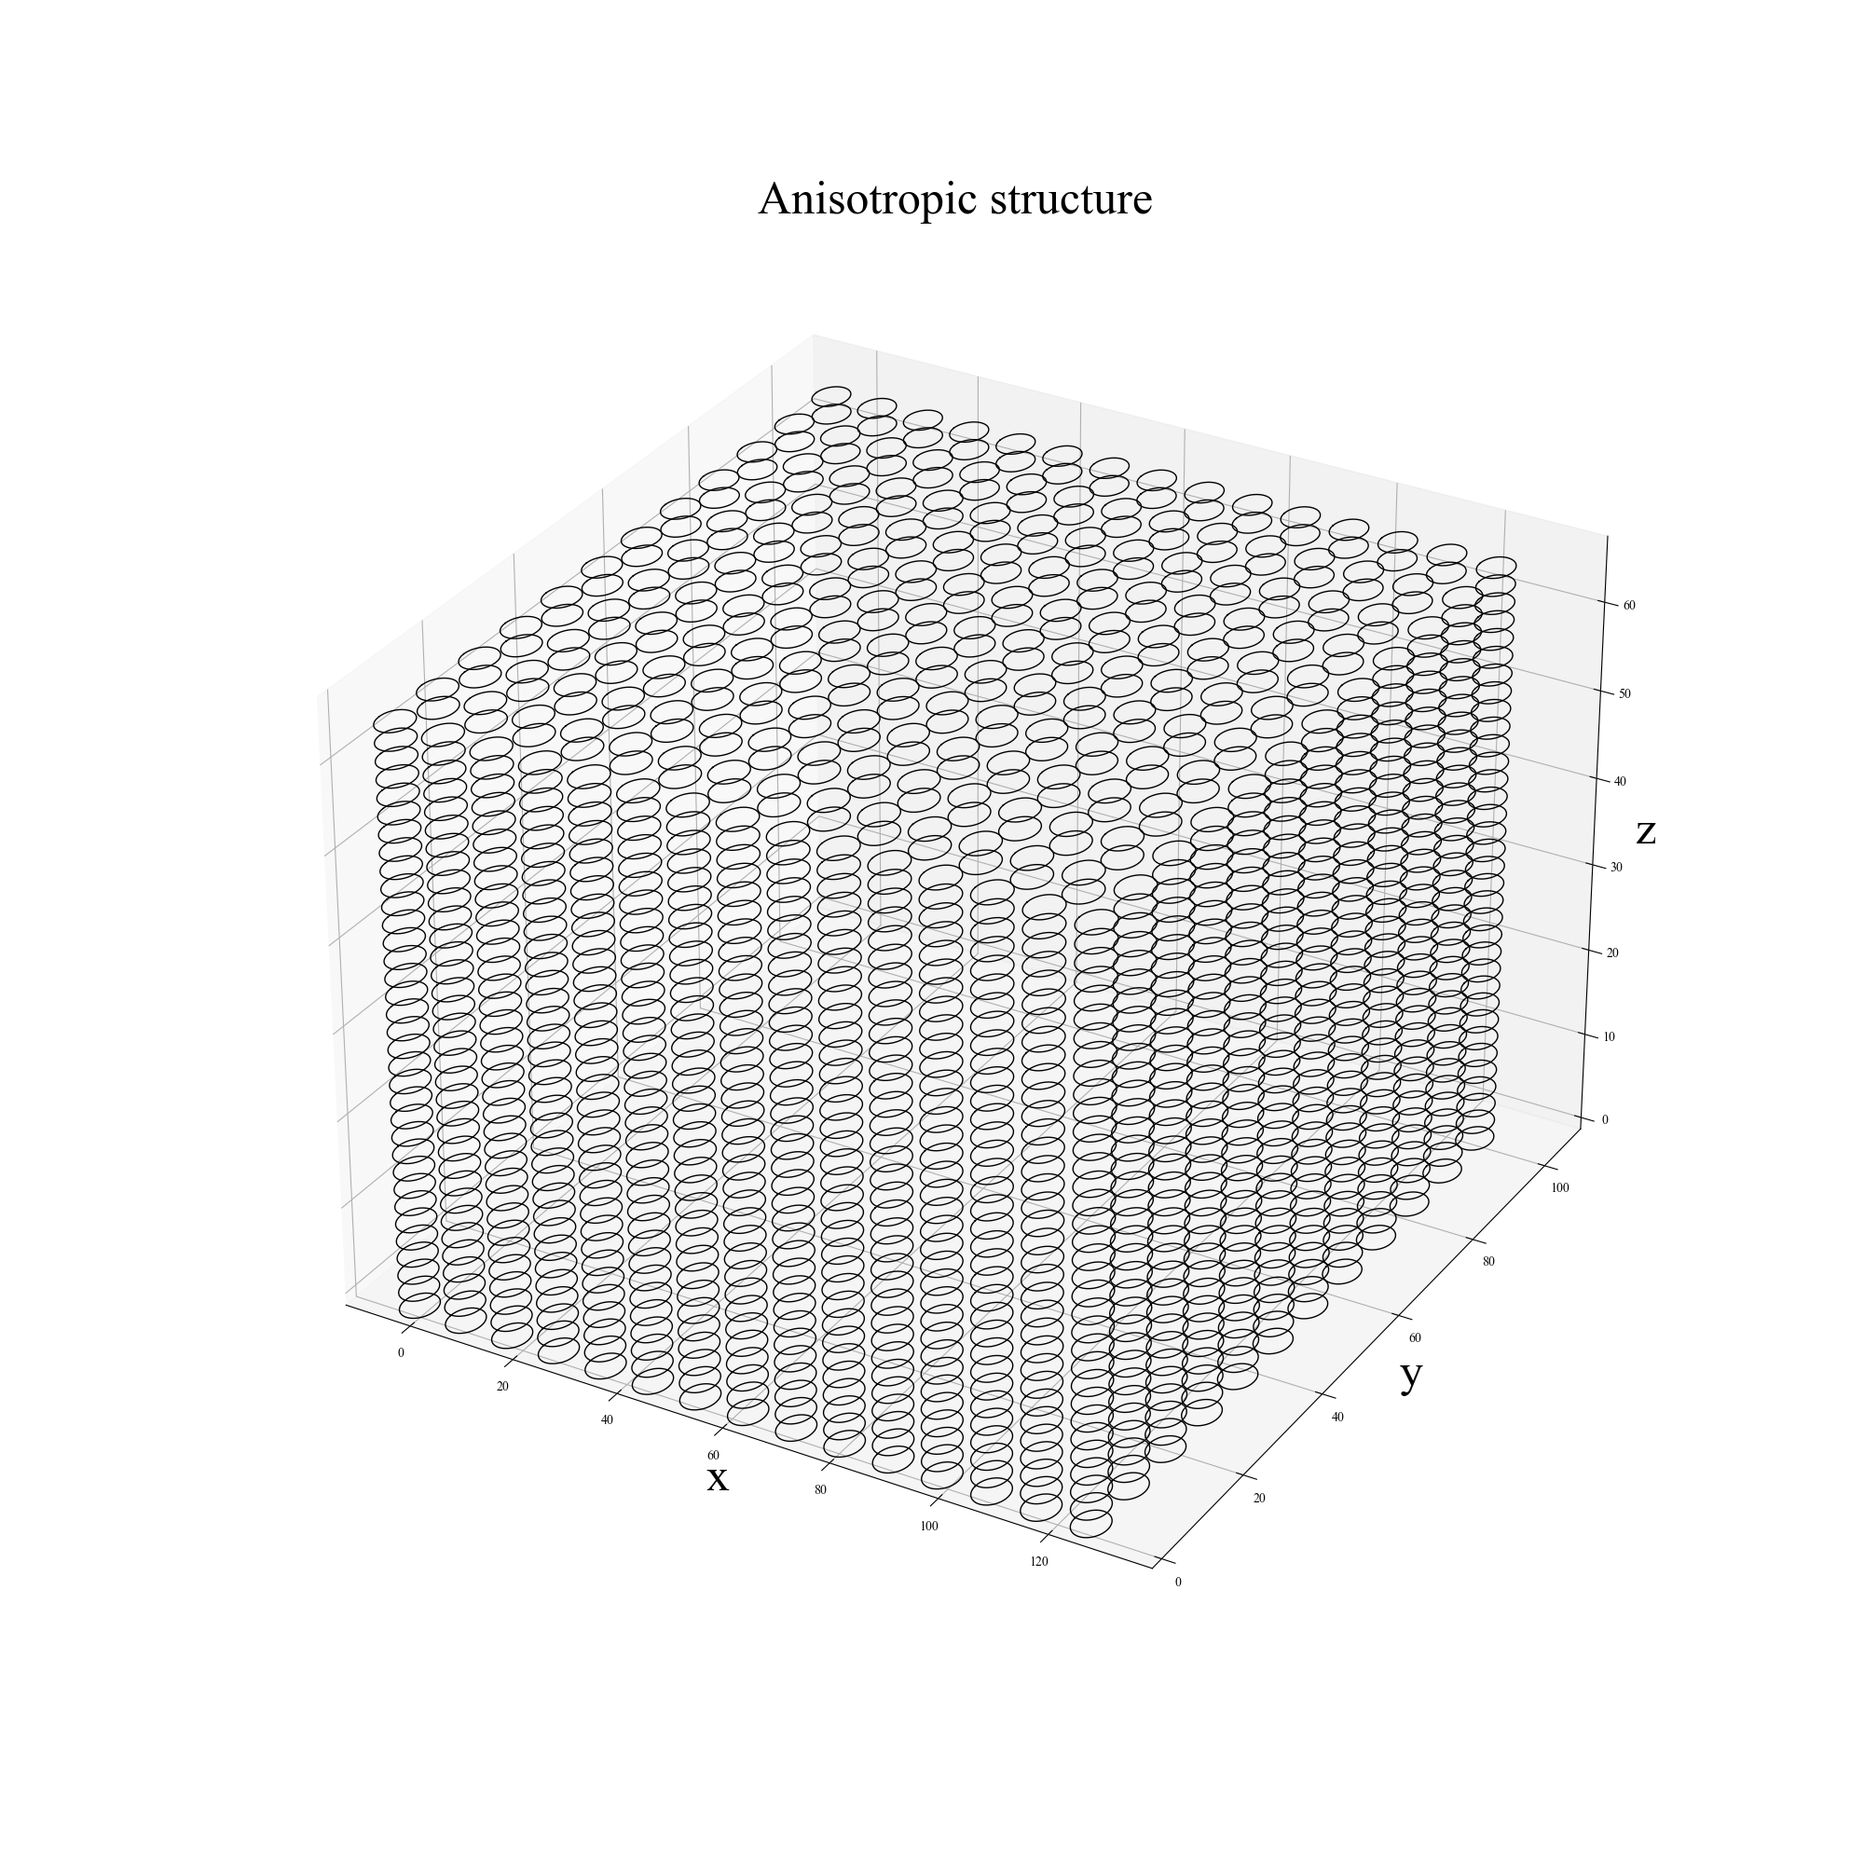
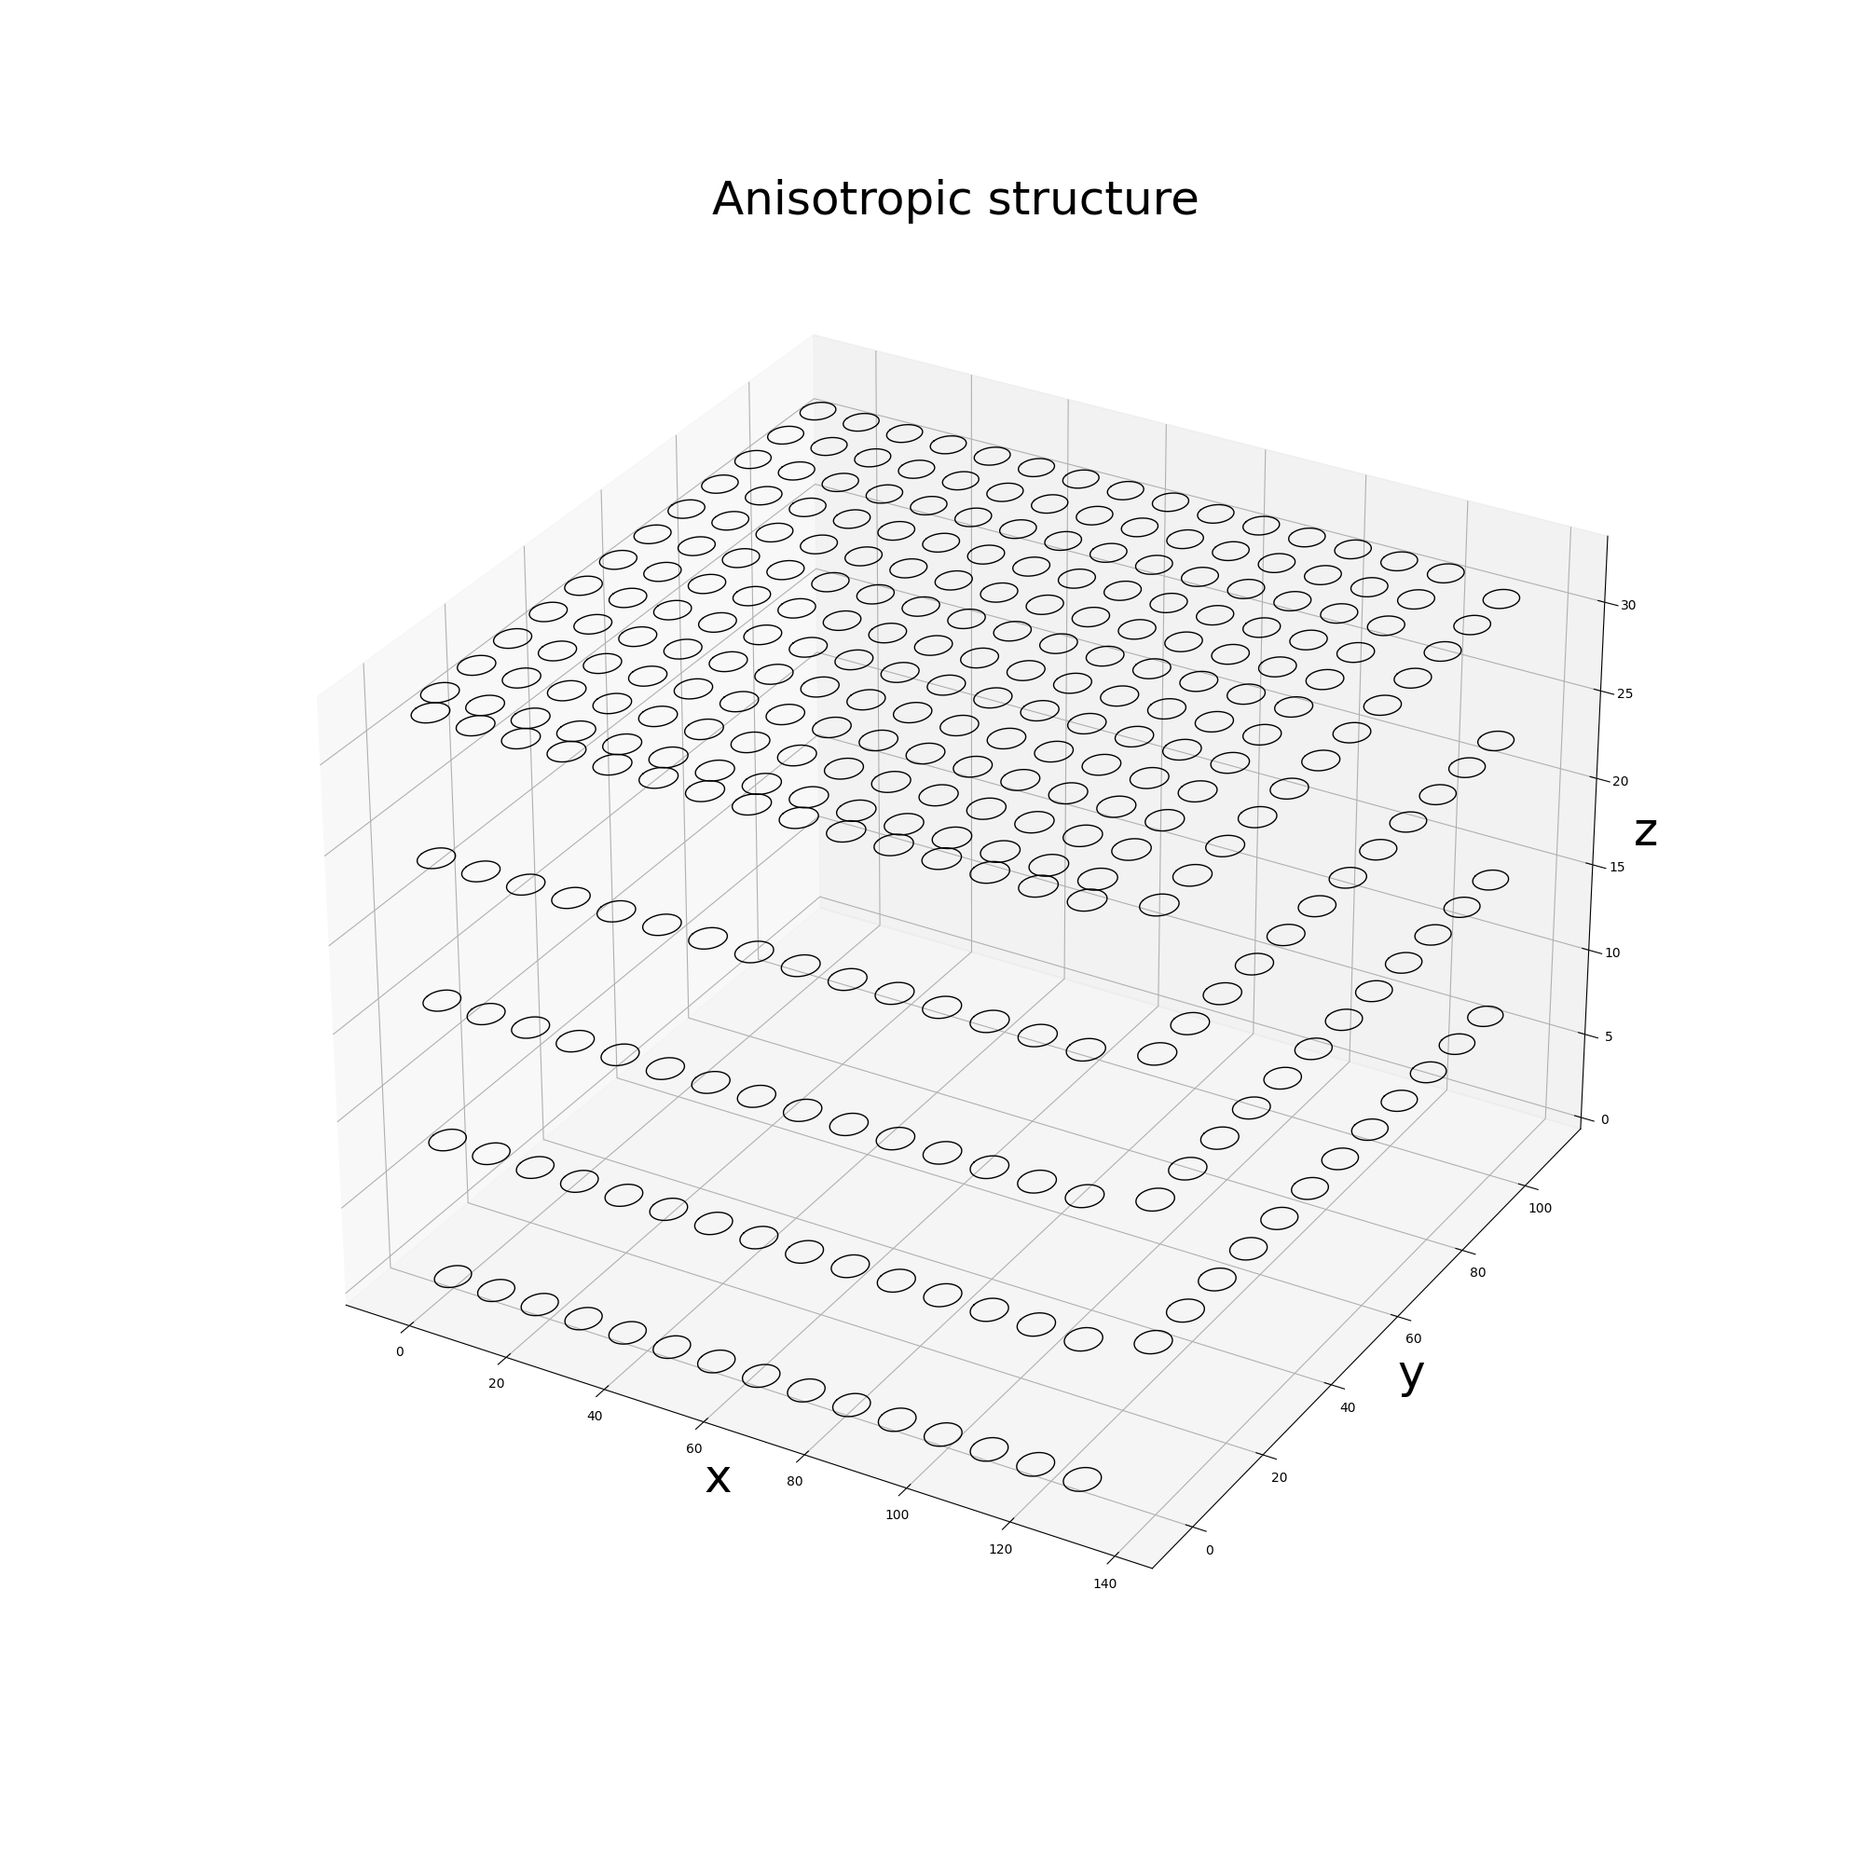
Final comments

Changed region(s): [[0.186, 0.217, 0.806, 0.837], [0.372, 0.093, 0.651, 0.124]]

diff --git a/Code/Plotting.py b/Code/Plotting.py
@@ -5,7 +5,7 @@ import matplotlib.pyplot as plt
 from matplotlib import rcParams
 import numpy as np
 from numpy import sqrt, pi
-from Permeability_anisotropic import Omega, MuReal, MuImag
+
 
 # Customizing plot and fonts
 rcParams['font.family'] = 'Times New Roman'
@@ -26,6 +26,16 @@ with open("DATA/RespondingRingIm.txt", "r") as res:
     Omega_im_exp = np.array([float(xy.split()[0]) for xy in XY])
     Impedance_imag_exp = np.array([float(xy.split()[1]) for xy in XY])
 
+with open("DATA/RespondingRingRealModel.txt", "r") as res:
+    XY = res.read().split("\n")
+    Omega_real_mod = np.array([float(xy.split()[0]) for xy in XY])
+    Impedance_real_mod = np.array([float(xy.split()[1]) for xy in XY])
+
+with open("DATA/RespondingRingImModel.txt", "r") as res:
+    XY = res.read().split("\n")
+    Omega_im_mod = np.array([float(xy.split()[0]) for xy in XY])
+    Impedance_imag_mod = np.array([float(xy.split()[1]) for xy in XY])
+
 with open("DATA/Responding-MRI.txt", "r") as res:
     XY = res.read().split("\n")
     XY = XY[:len(XY)-1]
@@ -34,10 +44,12 @@ with open("DATA/Responding-MRI.txt", "r") as res:
     Impedance_imag = np.array([float(xy.split()[2]) for xy in XY])
 
 
-Impedance_real_exp = Impedance_real_exp/max(Impedance_real_exp)
-Impedance_imag_exp = Impedance_imag_exp/max(Impedance_imag_exp)
-Impedance_real = Impedance_real/max(Impedance_real)
-Impedance_imag = Impedance_imag/max(Impedance_imag)
+#Impedance_real_exp = Impedance_real_exp/max(Impedance_real_exp)
+#Impedance_imag_exp = Impedance_imag_exp/max(Impedance_imag_exp)
+#Impedance_real_mod = Impedance_real_mod/max(Impedance_real_mod)
+#Impedance_imag_mod = Impedance_imag_mod/max(Impedance_imag_mod)
+#Impedance_real = Impedance_real/max(Impedance_real)
+#Impedance_imag = Impedance_imag/max(Impedance_imag)
 
 fig, ax = plt.subplots(figsize = (10, 6))
 ax.set_xlabel("Frequency, MGz")
@@ -45,7 +57,10 @@ ax.set_ylabel("Real part impedance, Ohm")
 plt.grid(True)
 
 plt.plot(Omega/2/pi/10 ** 6, Impedance_real, label=r'Modeling', color='blue')
-plt.plot(Omega_real_exp, Impedance_real_exp, label = "Experiment", color = "black", linestyle = "-")
+plt.plot(Omega_real_exp, Impedance_real_exp, label = "Experiment", color = "black", linestyle = "dotted")
+plt.plot(Omega_real_mod, Impedance_real_mod, label = "Verified modeling", color = "green", linestyle = "-")
+
+plt.legend()
 plt.savefig(f"Plots/Responding_Impedance_Real")
 plt.show()
 
@@ -56,8 +71,11 @@ ax.set_xlabel("Frequency, MGz")
 ax.set_ylabel("Imaginary part of impedance, ohm")
 plt.grid(True)
 
-plt.plot(Omega/2/pi/10 ** 6, Impedance_imag, label=r'Imaginary part', color='red')
-plt.plot(Omega_im_exp, Impedance_imag_exp, label = "Experiment", color = "black", linestyle = "-")
+plt.plot(Omega/2/pi/10 ** 6, Impedance_imag, label=r'Modeling', color='red')
+plt.plot(Omega_im_exp, Impedance_imag_exp, label = "Experiment", color = "black", linestyle = "dotted")
+plt.plot(Omega_im_mod, Impedance_imag_mod, label = "Verified modeling", color = "green", linestyle = "-")
+
+plt.legend()
 plt.savefig(f"Plots/Responding_Impedance_Im")
 plt.show()
 

diff --git a/Code/Simple.py b/Code/Simple.py
@@ -5,7 +5,7 @@ from scipy import linalg
 
 import numpy as np
 from numpy import real, imag, sqrt
-
+#from numpy import linalg
 # Choose set of parameters to calculating
 
 from Parameters import R, L, C, mu_0, a1, a, R_coil, L_coil, V, name
@@ -13,12 +13,12 @@ from Parameters import R, L, C, mu_0, a1, a, R_coil, L_coil, V, name
 # Calculating responding impedance normalized on ring current
 
 def Z_coil(omega, matrix_M, matrix_I):
-    return sum([1j*omega*float(matrix_M[len(matrix_M)-1][i]) * matrix_I[i]/matrix_I[len(matrix_M)-1] for i in range(len(matrix_M)-1)]),
+    return sum([1j*omega*complex(matrix_M[-1][i]) * matrix_I[i]/matrix_I[-1] for i in range(len(matrix_M))])
 
 # Modeling current in rings for this frequency range
 
-w_max = sqrt(1/L/C)*1.1     # Maximum frequency in MGz
-w_min = sqrt(1/L/C)*0.9    # Minimum frequency in MGz
+w_max = 75*10 ** 6 * 2 * pi     # Maximum frequency in MGz
+w_min = 55*10 ** 6 * 2 * pi   # Minimum frequency in MGz
 
 Omega = np.linspace(w_min, w_max, 100)                           # Frequency for each solving
 Impedance_real = []                                              # Real part of impedance on responding ring
@@ -26,10 +26,11 @@ Impedance_imag = []                                              # Imaginary par
 
 # Reading data file with geometric matrix
 
+print("Reading data..")
 with open(f"DATA/Data-{name}.txt", "r") as res:
    RES = res.read()
    M = [[k for k in x.split(" ")] for x in RES.split("\n")]
-M = [[float(M[i][k])*(a1/a) ** 1 * mu_0/(4*pi) for k in range(len(M[i]))] for i in range(len(M)-1)]
+M = [[float(M[i][k])*(a1/a) ** 1 * mu_0/(2*pi) for k in range(len(M[i]))] for i in range(len(M)-1)]
 print(f"Modeling responding ring for {name} set of parameters\n Number of rings: {len(M)}")
 
 for omega in Omega:
@@ -40,21 +41,23 @@ for omega in Omega:
     M_0coil = R_coil/(1j*omega) + L_coil           # Self-impedance of responding ring
     Mi = M + np.eye(len(M)) * M_0                  # Add self-impedance of diagonal
     Mi[len(V)-1][len(V)-1] = M_0coil
-    Vi = [v/1j*omega for v in V]                    # Correcting voltage to new matrix equation
+    Vi = [v/1j/omega for v in V]                    # Correcting voltage to new matrix equation
 
     # Current list
 
     I = linalg.solve(Mi, Vi)
-
-    Impedance_real.append(real(Z_coil(omega, M, I))[0])
-    Impedance_imag.append(imag(Z_coil(omega, M, I))[0])
+    print(I)
+    print(M[-1])
+    print(max(M[-1]))
+    Impedance_real.append(real(Z_coil(omega, M, I)))
+    Impedance_imag.append(imag(Z_coil(omega, M, I)))
 
 Impedance_real = np.asarray(Impedance_real)
 Impedance_imag = np.asarray(Impedance_imag)
 
 # Add result to Data folder
-
+print("Saving data...")
 with open(f"DATA/Responding-{name}.txt", 'w') as res:
     for i in range(len(Omega)):
         res.write(f"{Omega[i]} {Impedance_real[i]} {Impedance_imag[i]}\n")
-
+print("Ended")

diff --git a/Code/Parameters_anisotropic.py b/Code/Parameters_anisotropic.py
@@ -15,22 +15,35 @@ import numpy as np
 def Rectangle_packing(nx, ny, nz, r, a, b, orientation = "z", shift_x = 0, shift_y = 0):
     rings = []
 
-    for i in range(nx):
-        for j in range(ny):
-            for k in range(nz):
+    for k in range(nz):
+        for i in range(nx):
+            for j in range(ny):
                 rings.append(
                     Ring(
                         # Prevent rings from getting out of the borders
-                        (i*a + shift_x * k)%((nx-1)*a),
-                        (j*a + shift_y * k)%((ny-1)*a),
+                        (i*a + shift_x * k)%((nx)*a),
+                        (j*a + shift_y * k)%((ny)*a),
                         k*b,
                         orientation,
                         r)
                 )
     return np.array(rings, dtype=Ring)
 
-def Hexagonal_packing(nx, ny, nz, r, a, b, shif_x = 0, shift_y = 0):
-    pass
+def Hexagonal_packing(nx, ny, nz, r, a, b, orientation, shif_x = 0, shift_y = 0):
+    rings = []
+
+    for k in range(nz):
+        for i in range(nx):
+            for j in range(ny):
+                rings.append(
+                    Ring(
+                        # Prevent rin gs from getting out of the borders
+                        (i * a + shift_x * k) % ((nx - 1) * a),
+                        (j * a + shift_y * k) % ((ny - 1) * a),
+                        k * b,
+                        orientation,
+                        r)
+                )
 
 # Parameters for system used in modeling
 
@@ -44,9 +57,9 @@ Nx, Ny, Nz = 15, 12, 34                # Number of cell on each dimension
 a1 = 4.5 * 10 ** -3                    # Length of cell
 b1 = 1 * 10 ** -3                      # Distance between layers
 a = 9                                  # Length of cell in packing units
-b = 2                                  # Distance between layers in packing units
-shift_x = a / 2                        # Shifting of next layer along x axes
-shift_y = a / 2                        # Shifting of next layer along y axes
+b = 1                                  # Distance between layers in packing units
+shift_x = a/8                          # Shifting of next layer along x axes
+shift_y = a/8                          # Shifting of next layer along y axes
 
 Radius1 = a1/3                         # Mean radius of rings
 Radius = a/3                           # Mean radius of rings in packing units
@@ -58,4 +71,4 @@ w = 0.7*Radius/3                       # Width of strip in packing units
 Rings = Rectangle_packing(Nx, Ny, Nz, Radius, a, b, "z", shift_x, shift_y)
 Number = len(Rings)
 
-name = "Anisotropic-shifted-cube"   # Name of Data file with this parameter set
+name = "Anisotropic-Nonshifted-cube"   # Name of Data file with this parameter set

diff --git a/Code/Rings_visualize.py b/Code/Rings_visualize.py
@@ -52,23 +52,37 @@ def plot_circle(ring):
 
 #from Parameters import Rings
 
-from Parameters_anisotropic import Rings
+from Parameters_anisotropic import Rings, a, b
 
 fig = plt.figure(figsize = (20, 20))
 ax = fig.add_subplot(1, 1, 1, projection = '3d')
 
-Orientation = "z"                                               # Orientation of ring that will be shown
+
+# Draw only one orientation (any for all)
+# and show only bordered rings
+# to decrease number of rings
+
+Orientation = "z"
+OnlyBorder = True
+
+Border_x = max([ring.x for ring in Rings])
+Border_y = min([ring.y for ring in Rings])
+Border_z = max([ring.z for ring in Rings])
 
 for ring in Rings[:len(Rings)]:
-    if ring.pos == Orientation and ring.z < 5:
+    id_d = ring.pos == Orientation or Orientation == "any"
+
+    id_x = ring.x == Border_x
+    id_y = ring.y == Border_y
+    id_z = ring.z == Border_z
+
+    if id_d and (id_x or id_y or id_z):
         plot_circle(ring)
 
 # Other parameters of plot
 plt.title(f"Anisotropic structure", size = 36) #Size
-ax.set_ylim(0, 9*12)
 ax.set_xlabel("x", size = 36)
 ax.set_ylabel("y", size = 36)
 ax.set_zlabel("z", size = 36)
-
 plt.savefig(f"Plots/Anisotropic2-rings")
 plt.show()

diff --git a/Code/Data.py b/Code/Data.py
@@ -107,7 +107,7 @@ def Mnm(First_ring, Second_ring, Data = {}):
     #Consider responding ring
 
     if r2 != r:
-        wid = R
+        wid = r2
         L_p = L_rp
         L_o = L_ro
     else:
@@ -161,10 +161,11 @@ Data = {}
 
 print(f"Modeling impedance matrix for {name} set of parameters")
 print(f"Number of rings: {Number}")
+import Rings_visualize
 for n in range(Number):
     for m in range(Number):
         if n > m:
-            if n % (Number*10) == 0:
+            if n % (Number//25) == 0 and m % (Number) == 0:
                 print(f"String number {n}")
             R1 = Rings[n]
             R2 = Rings[m]
@@ -173,11 +174,17 @@ for n in range(Number):
 
 # Writing table in Data-file, divide string by \n and elements by " "
 
+print("Saving data...")
 with open(f"DATA/Data-{name}.txt", "w") as res:
     for i in range(Number):
         res.write(" ".join(map(str, M[i])) + "\n")
 
 # Sum of matrix M elements to calculate permeability
 with open(f"DATA/SumM-{name}.txt", "w") as res:
-    SumM = sum(M)
+    SumM = 0
+    for m in M:
+        for mi in m:
+            SumM +=mi
+
     res.write(str(SumM))
+print("Ended")

diff --git a/Code/Permeability_anisotropic.py b/Code/Permeability_anisotropic.py
@@ -15,13 +15,13 @@ def mu(R, L, SumM, omega, r_0, a, b):
     return (Z_0 + Z + 2/3*const)/(Z_0 + Z - 1/3 * const)
 
 
-Omega = np.logspace(-1, 10, 1000)
+Omega = np.logspace(-1, 6, 1000)
 
 # Using data for calculation
 
-#with open(f"DATA/SumM-{name}.txt", "r") as res:
-#    SumM = float(res.read())
-SumM = 8 * 10 ** -6
+with open(f"DATA/SumM-{name}.txt", "r") as res:
+    SumM = complex(res.read()) * a1 *mu_0
+
 MuReal = []
 MuImag = []
 for omega in Omega:
@@ -30,8 +30,6 @@ for omega in Omega:
 
 # Plots of magnetic permeability of system
 
-with open(f"DATA/SumM-{name}.txt", "r") as res:
-   SumM = int(res.read())
 
 fig, ax = plt.subplots(figsize = (10, 6))
 ax.set_xlabel("Frequency, Gz")
@@ -50,7 +48,7 @@ ax.set_xscale("log")
 ax.set_ylabel("Imaginary part of magnetic permeability")
 plt.grid(True)
 
-plt.scatter(Omega, MuImag, label=r'Imaginary part', color='blue')
+plt.plot(Omega, MuImag, label=r'Imaginary part', color='blue')
 plt.savefig(f"Plots/Anisotropic-muim")
 plt.show()
 

diff --git a/Code/Parameters.py b/Code/Parameters.py
@@ -48,8 +48,8 @@ w = 0.7*0.15 * a                       # Width of strip in packing units
 
 
 R_coil = 1.5                           # Resistance of responding ring
-L_coil = 1.8*10**-7                    # Self-inductance of responding  ring
-#L_coil = 2.6*10**-7                   # Another parameter for responding ring
+#L_coil = 1.8*10**-7                    # Self-inductance of responding  ring
+L_coil = 2.6*10**-7                   # Another parameter for responding ring
 
 
 
@@ -57,7 +57,7 @@ Rings = Rectangle_packing(Nx, Ny, Nz, Radius)   # List of Rings with their coord
 
 # Adding responding ring to identify resonance frequency
 
-Rings = np.append(Rings, Ring(0, -4, 0, "y", 2.54/1.5*5))
+Rings = np.append(Rings, Ring(0, -4, 0, "y", 2.54/1.5*3))
 
 Number = len(Rings)                         # Number of Rings
 
